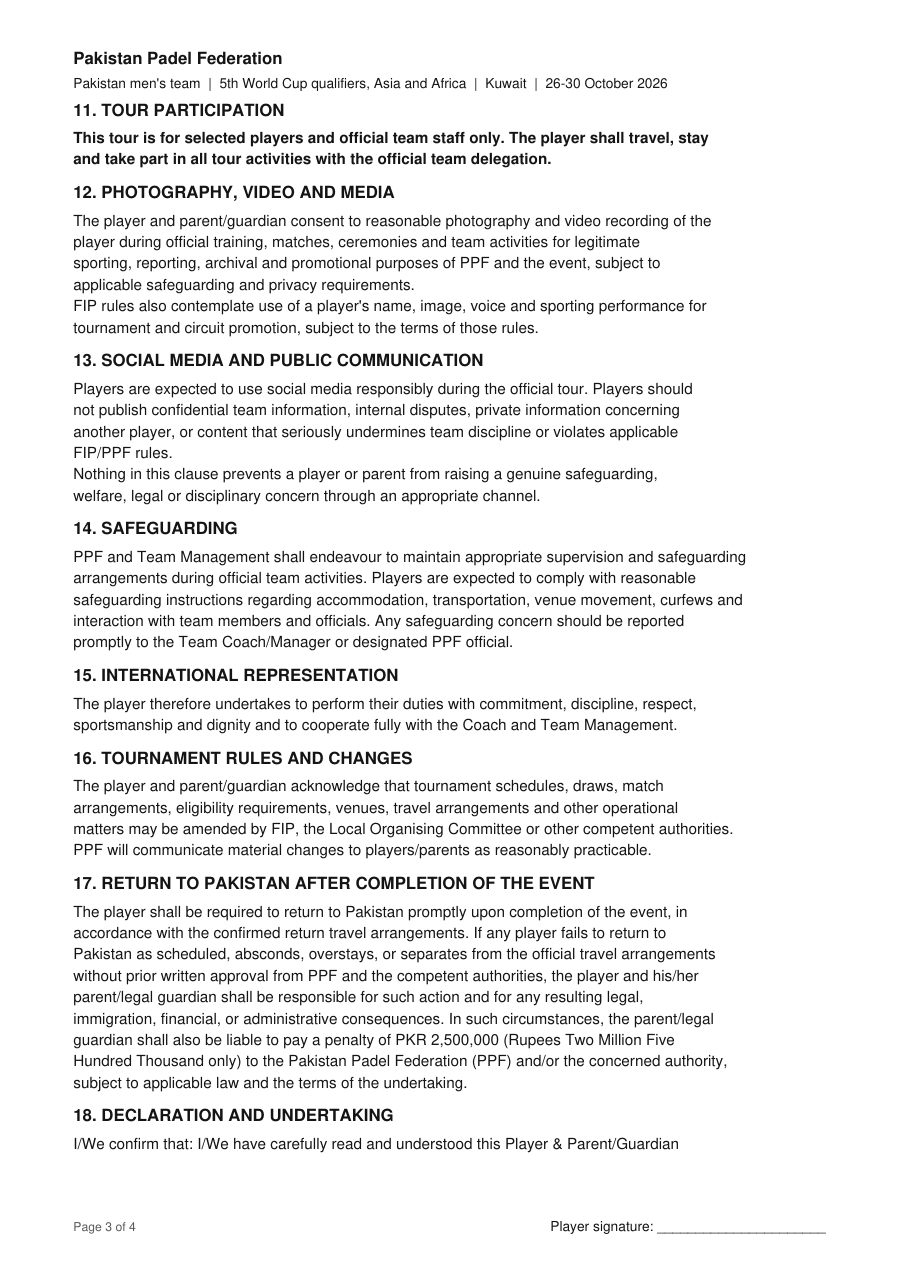
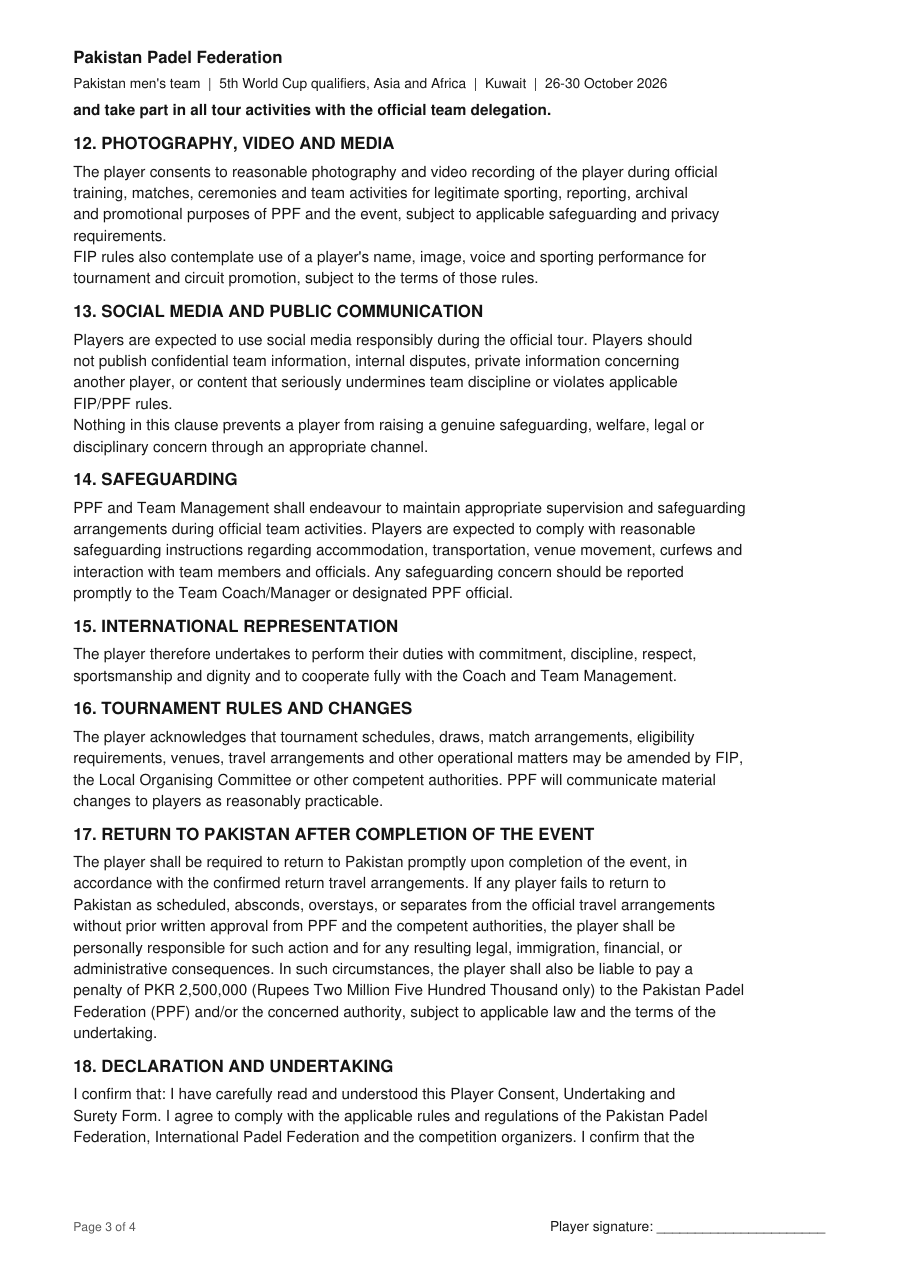
Players are 18+: remove all parent/guardian fields and wording; player-only bond

Changed region(s): [[0.0615, 0.0311, 0.8308, 0.9013], [0.6769, 0.9324, 0.7077, 0.9635], [0.6154, 0.9324, 0.6462, 0.9635]]

diff --git a/server.js b/server.js
@@ -16,8 +16,8 @@ fs.mkdirSync(OUT, { recursive: true });
 const ADMIN = process.env.ADMIN_TOKEN || '';
 const NOTIFY = (process.env.NOTIFY_TO || 'danish@tristar.education,admissions@tseducation.org').split(',').map(s => s.trim()).filter(Boolean);
 const PAGES = 4;
-const FIELDS = [{"id": "name", "page": 1, "label": "Player Name", "x": 114.3, "y": 695.9, "req": true, "type": "text"}, {"id": "guardian_p1", "page": 1, "label": "Father/Mother/Guardian Name", "x": 192.7, "y": 683.9, "req": true, "type": "text"}, {"id": "dob", "page": 1, "label": "Date of Birth", "x": 112.1, "y": 671.9, "req": true, "type": "text"}, {"id": "cnic", "page": 1, "label": "CNIC/B-Form No.", "x": 135.4, "y": 659.9, "req": true, "type": "text"}, {"id": "passport", "page": 1, "label": "Passport No.", "x": 114.4, "y": 647.9, "req": true, "type": "text"}, {"id": "licence", "page": 1, "label": "National Padel Licence No.", "x": 177.2, "y": 635.9, "req": false, "type": "text"}, {"id": "contact", "page": 1, "label": "Contact No.", "x": 109.4, "y": 599.9, "req": true, "type": "tel"}, {"id": "email", "page": 1, "label": "Email Address", "x": 121.0, "y": 587.9, "req": true, "type": "email"}, {"id": "emergency", "page": 1, "label": "Emergency Contact No.", "x": 162.7, "y": 575.9, "req": true, "type": "tel"}, {"id": "name4", "page": 4, "label": "Player Name", "x": 114.3, "y": 627.9, "req": true, "type": "text"}, {"id": "date4", "page": 4, "label": "Date", "x": 77.7, "y": 615.9, "req": true, "type": "text"}, {"id": "pg_name", "page": 4, "label": "Parent/Guardian Name", "x": 159.4, "y": 555.9, "req": false, "type": "text"}, {"id": "pg_cnic", "page": 4, "label": "CNIC No. (Parent/Guardian)", "x": 99.3, "y": 543.9, "req": false, "type": "text"}, {"id": "pg_rel", "page": 4, "label": "Relationship with Player", "x": 163.3, "y": 531.9, "req": false, "type": "text"}, {"id": "pg_mobile", "page": 4, "label": "Mobile No. (Parent/Guardian)", "x": 104.3, "y": 519.9, "req": false, "type": "tel"}, {"id": "pg_date", "page": 4, "label": "Date (Parent/Guardian)", "x": 77.7, "y": 507.9, "req": false, "type": "text"}];
-const SEL = { 'Playing Squad': { x: 127.2, y: 612 }, 'Reserve Player': { x: 205.6, y: 612 } };
+const FIELDS = [{"id": "name", "page": 1, "label": "Player Name", "x": 114.3, "y": 695.9, "req": true, "type": "text"}, {"id": "dob", "page": 1, "label": "Date of Birth", "x": 113, "y": 683.9, "req": true, "type": "text"}, {"id": "cnic", "page": 1, "label": "CNIC No.", "x": 99.4, "y": 671.9, "req": true, "type": "text"}, {"id": "passport", "page": 1, "label": "Passport No.", "x": 114.5, "y": 659.9, "req": true, "type": "text"}, {"id": "licence", "page": 1, "label": "National Padel Licence No.", "x": 176.9, "y": 647.9, "req": false, "type": "text"}, {"id": "contact", "page": 1, "label": "Contact No.", "x": 109.5, "y": 611.9, "req": true, "type": "tel"}, {"id": "email", "page": 1, "label": "Email Address", "x": 121.5, "y": 599.9, "req": true, "type": "email"}, {"id": "emergency", "page": 1, "label": "Emergency Contact No.", "x": 162.8, "y": 587.9, "req": true, "type": "tel"}, {"id": "name4", "page": 4, "label": "Player Name", "x": 114.3, "y": 655.9, "req": true, "type": "text"}, {"id": "date4", "page": 4, "label": "Date", "x": 78.2, "y": 643.9, "req": true, "type": "text"}];
+const SEL = { 'Playing Squad': { x: 127.2, y: 624 }, 'Reserve Player': { x: 205.6, y: 624 } };
 
 function pkt(d) {
   const t = new Date(d.getTime() + 5 * 3600 * 1000);
